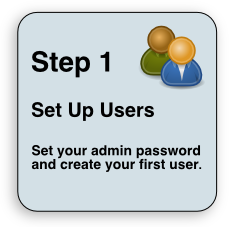
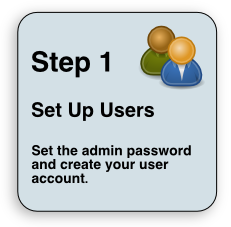
Updated all help text in the wizard. This incidentally fixes #4803. Reviewed by Chip.
git-svn-id: http://dev.zenoss.com/svnint/trunk/core@26457 f5df01ce-0320-0410-9ed9-ddcd13c732cc

Changed region(s): [[0.2424, 0.6167, 0.8788, 0.7709], [0.1212, 0.7401, 0.3939, 0.8326]]

diff --git a/Products/ZenModel/skins/zenmodel/quickstart.css b/Products/ZenModel/skins/zenmodel/quickstart.css
@@ -3,6 +3,9 @@ html {
     font-family: Helvetica, Arial, sans-serif;
 }
 
+em { font-style: italic; }
+strong { font-weight: bold; }
+
 #header {
     padding-top: 5px;
     padding-left: 5px;
@@ -122,6 +125,17 @@ div.x-combo-list { position: relative; top:-20px; }
 
 .x-tab-hide .x-tab-panel-header {
     display: none;
+}
+
+.helptext {
+    color: #666;
+    font-style: italic;
+    font-size: 0.9em;
+    margin-bottom: 1em;
+}
+
+span.noem {
+    font-style: normal;
 }
 
 /* Fix discussed here: https://yui-ext.com/forum/showthread.php?p=270748#post270748 */
